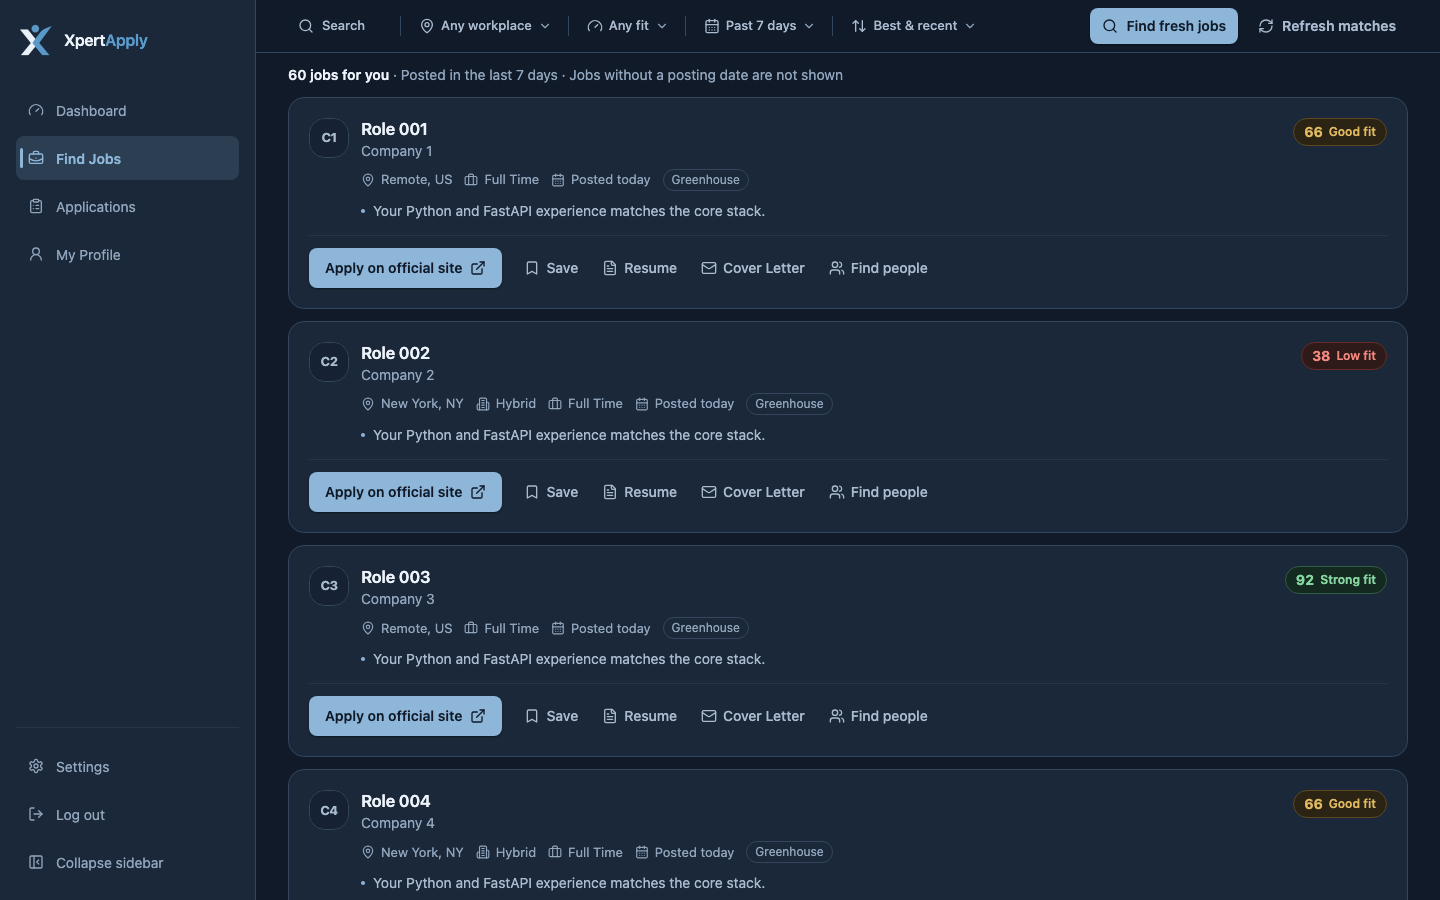
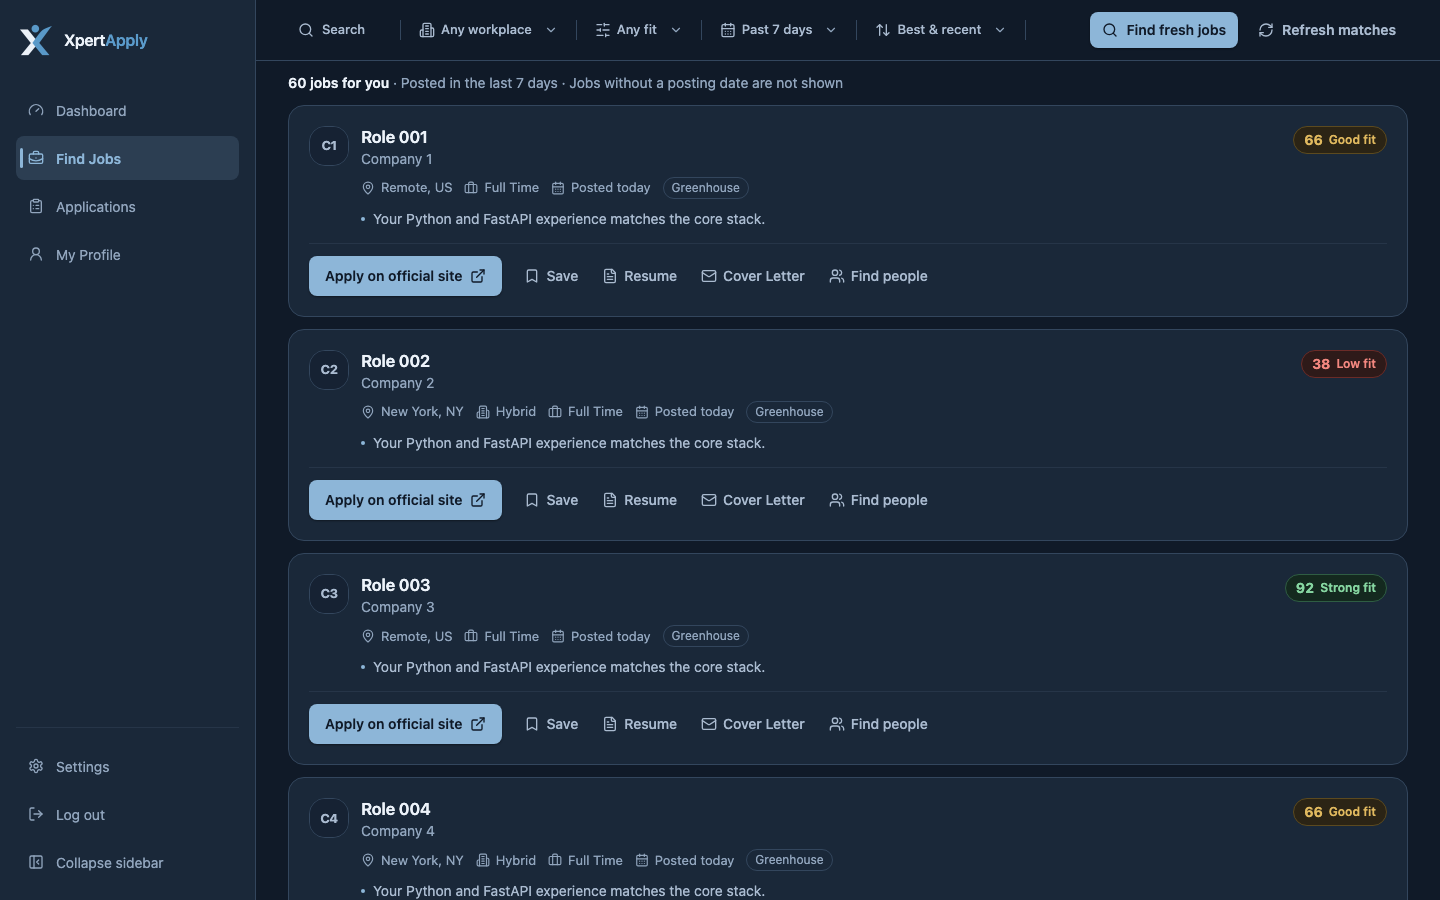
fix(web): Jobs navbar refinements from reference comparison (PUI-JOBS-NAV-FINAL)
Trailing rule before the actions, roomier bar, chevrons at the item edge,
animatable search expansion, building/sliders icons. e2e now fails on any
new CSP violation beyond the documented report-only baseline.

diff --git a/apps/web/components/jobs/JobsFilterBar.tsx b/apps/web/components/jobs/JobsFilterBar.tsx
@@ -1,7 +1,7 @@
 "use client";
 
 import { useRef, useState } from "react";
-import { CalendarDays, ChevronDown, Gauge, Loader2, MapPin, Search, ArrowUpDown, X } from "lucide-react";
+import { ArrowUpDown, Building2, CalendarDays, ChevronDown, Loader2, Search, SlidersHorizontal, X } from "lucide-react";
 import type { JobsQuery, JobSort } from "@/lib/jobsQuery";
 import { JOBS_QUERY_DEFAULTS } from "@/lib/jobsQuery";
 
@@ -37,13 +37,13 @@ export function JobsFilterBar({
   return (
     <>
       <div className="border-b border-line-default bg-surface-page sm:sticky sm:top-0 sm:z-10">
-        <div className="mx-auto flex w-full max-w-[1600px] flex-wrap items-center gap-x-1 gap-y-1 px-4 py-1.5 xl:flex-nowrap sm:px-6 lg:px-8">
+        <div className="mx-auto flex w-full max-w-[1600px] flex-wrap items-center gap-x-1 gap-y-1 px-4 py-2.5 xl:flex-nowrap sm:px-6 lg:px-8">
           <SearchItem value={query.q} onChange={(q) => onChange({ q })} />
 
           <Divider />
           <FilterSelect
             ariaLabel="Workplace type"
-            icon={<MapPin aria-hidden className="h-4 w-4" />}
+            icon={<Building2 aria-hidden className="h-4 w-4" />}
             value={query.workplace}
             isDefault={query.workplace === JOBS_QUERY_DEFAULTS.workplace}
             onChange={(value) => onChange({ workplace: value })}
@@ -56,7 +56,7 @@ export function JobsFilterBar({
           <Divider />
           <FilterSelect
             ariaLabel="Minimum fit score"
-            icon={<Gauge aria-hidden className="h-4 w-4" />}
+            icon={<SlidersHorizontal aria-hidden className="h-4 w-4" />}
             value={String(query.minFit)}
             isDefault={query.minFit === JOBS_QUERY_DEFAULTS.minFit}
             onChange={(value) => onChange({ minFit: Number(value) })}
@@ -105,9 +105,12 @@ export function JobsFilterBar({
           />
 
           {actions && (
-            <div className="mt-1 flex w-full items-center gap-2 sm:ml-auto sm:mt-0 sm:w-auto sm:shrink-0 sm:pl-3 [&>*]:max-sm:flex-1">
-              {actions}
-            </div>
+            <>
+              <Divider />
+              <div className="mt-1 flex w-full items-center gap-2 sm:ml-auto sm:mt-0 sm:w-auto sm:shrink-0 sm:pl-2 [&>*]:max-sm:flex-1">
+                {actions}
+              </div>
+            </>
           )}
         </div>
       </div>
@@ -150,8 +153,8 @@ function SearchItem({ value, onChange }: { value: string; onChange: (value: stri
   const open = focused || value !== "";
   return (
     <label
-      className={`group flex h-10 min-w-0 cursor-text items-center gap-2 rounded-control px-2.5 text-foreground-secondary transition-[flex-basis,background-color] duration-fast ease-standard hover:bg-surface-subtle focus-within:bg-surface-subtle focus-within:ring-2 focus-within:ring-line-selected max-sm:w-full max-sm:basis-full ${
-        open ? "flex-1 basis-[200px]" : "sm:w-[104px] sm:flex-none"
+      className={`group flex h-10 min-w-0 cursor-text items-center gap-2 rounded-control px-2.5 text-foreground-secondary transition-[flex-grow,flex-basis,background-color] duration-200 ease-standard hover:bg-surface-subtle focus-within:bg-surface-subtle focus-within:ring-2 focus-within:ring-line-selected max-sm:w-full max-sm:basis-full ${
+        open ? "grow basis-[200px]" : "grow-0 basis-[104px]"
       }`}
     >
       <Search aria-hidden className="h-4 w-4 shrink-0" />
@@ -215,12 +218,12 @@ function FilterSelect({
       <span className="pointer-events-none absolute left-2.5 flex items-center">{icon}</span>
       {/* Sizes the control to the CHOSEN label: a native select is as wide as its longest option, which left "Any fit"
         * with a 175px box. The select is laid over this ghost text. */}
-      <span aria-hidden className="invisible whitespace-nowrap pl-8 pr-7 text-[13px] font-medium max-sm:w-full max-sm:pl-7 max-sm:pr-6 max-sm:truncate">
+      <span aria-hidden className="invisible whitespace-nowrap pl-8 pr-9 text-[13px] font-medium max-sm:w-full max-sm:pl-7 max-sm:pr-6 max-sm:truncate">
         {selectedLabel}
       </span>
       <select
         aria-label={ariaLabel}
-        className="ds-focus-ring absolute inset-0 h-10 w-full min-w-0 cursor-pointer appearance-none truncate rounded-control bg-transparent pl-8 pr-7 max-sm:pl-7 max-sm:pr-6 text-[13px] font-medium text-inherit"
+        className="ds-focus-ring absolute inset-0 h-10 w-full min-w-0 cursor-pointer appearance-none truncate rounded-control bg-transparent pl-8 pr-9 max-sm:pl-7 max-sm:pr-6 text-[13px] font-medium text-inherit"
         value={value}
         onChange={(event) => onChange(event.target.value)}
       >
@@ -230,7 +233,7 @@ function FilterSelect({
           </option>
         ))}
       </select>
-      <ChevronDown aria-hidden className="pointer-events-none absolute right-2 h-3.5 w-3.5 text-foreground-muted" />
+      <ChevronDown aria-hidden className="pointer-events-none absolute right-2.5 h-3.5 w-3.5 text-foreground-muted" />
     </label>
   );
 }

diff --git a/apps/web/e2e/dashboard-jobs-redesign.spec.ts b/apps/web/e2e/dashboard-jobs-redesign.spec.ts
@@ -243,6 +243,12 @@ test.describe("Jobs", () => {
   test("navbar: full-width, borderless filters, search expands on focus and keeps its query", async ({ page }) => {
     const errors: string[] = [];
     page.on("console", (message) => { if (message.type() === "error" && !/Content Security Policy/.test(message.text())) errors.push(message.text()); });
+    // New CSP regressions must fail this test: every securitypolicyviolation event is collected (report-only ones included).
+    await page.addInitScript(() => {
+      (window as unknown as { __csp: string[] }).__csp = [];
+      document.addEventListener("securitypolicyviolation", (event) =>
+        (window as unknown as { __csp: string[] }).__csp.push(`${event.violatedDirective} ${event.blockedURI}`));
+    });
     await install(page);
     await page.goto("/jobs");
     await expect(page.getByTestId("job-card").first()).toBeVisible();
@@ -266,6 +272,10 @@ test.describe("Jobs", () => {
     await expect(page.getByLabel("Sort jobs")).toHaveValue("best_recent");                  // nothing else was reset
     expect(await overflow(page)).toBeLessThanOrEqual(0);
     expect(errors).toEqual([]);
+    // Known report-only baseline, present before this change: Next's inline bootstrap scripts, and the mocked API origin
+    // (the policy allows the deployed API URL, not this test's localhost:8000). Anything else is a new regression.
+    const violations = await page.evaluate(() => (window as unknown as { __csp: string[] }).__csp);
+    expect(violations.filter((v) => v !== "script-src-elem inline" && !v.startsWith("connect-src http://localhost:8000/"))).toEqual([]);
   });
 
   test("one filled action per card; the others are quiet", async ({ page }) => {
